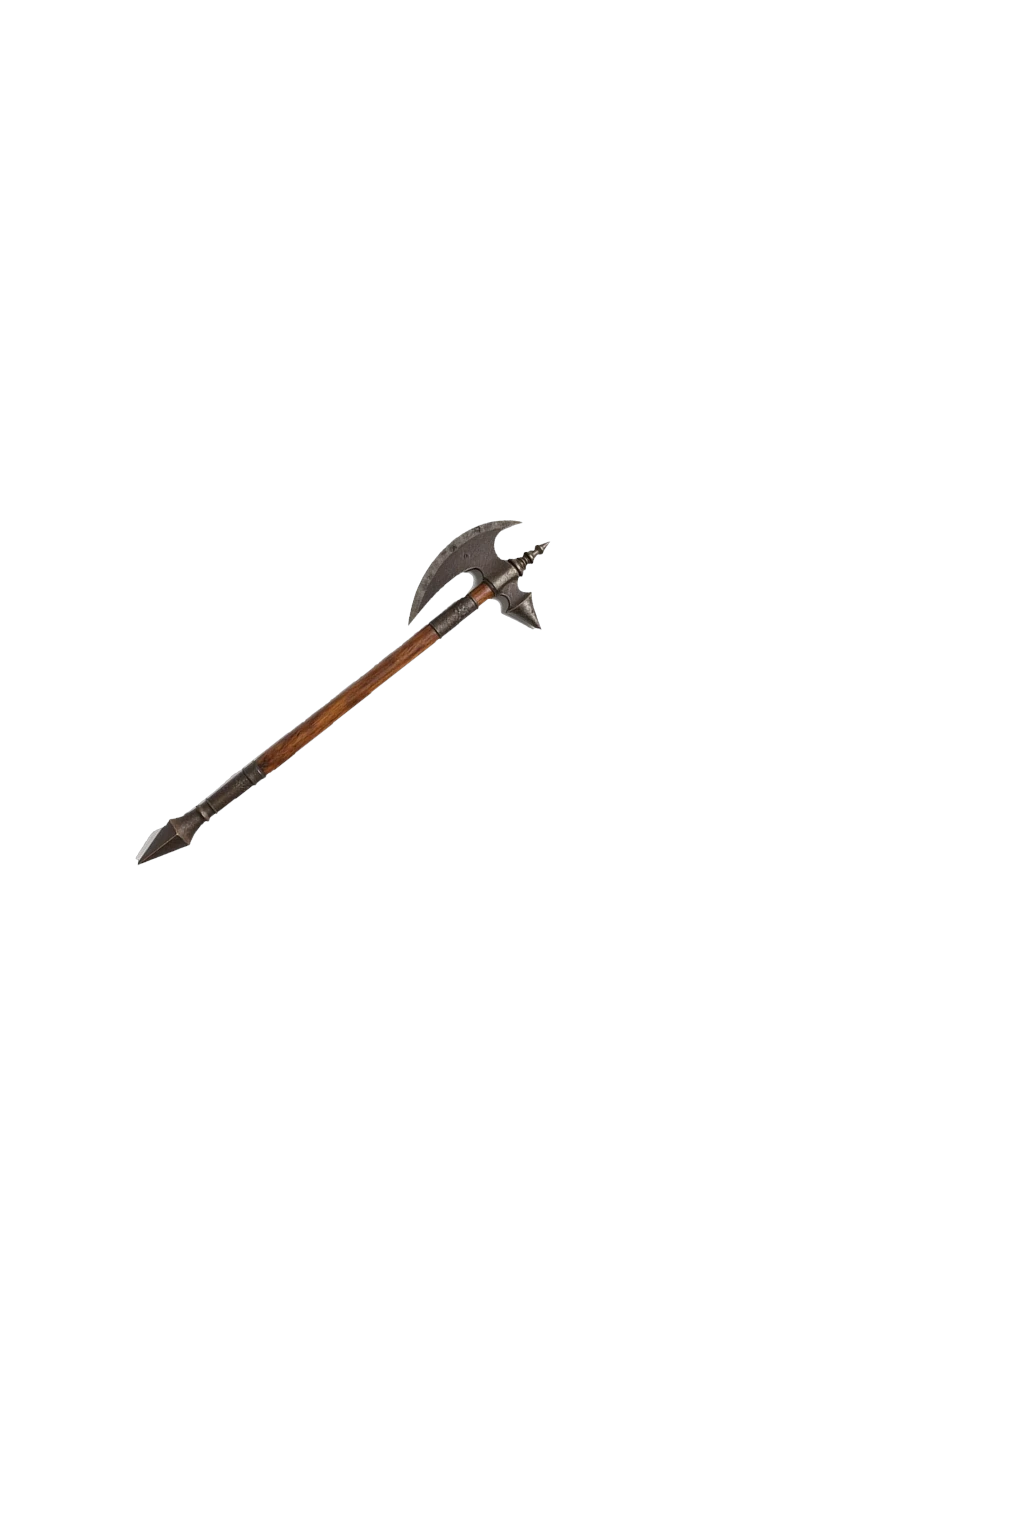
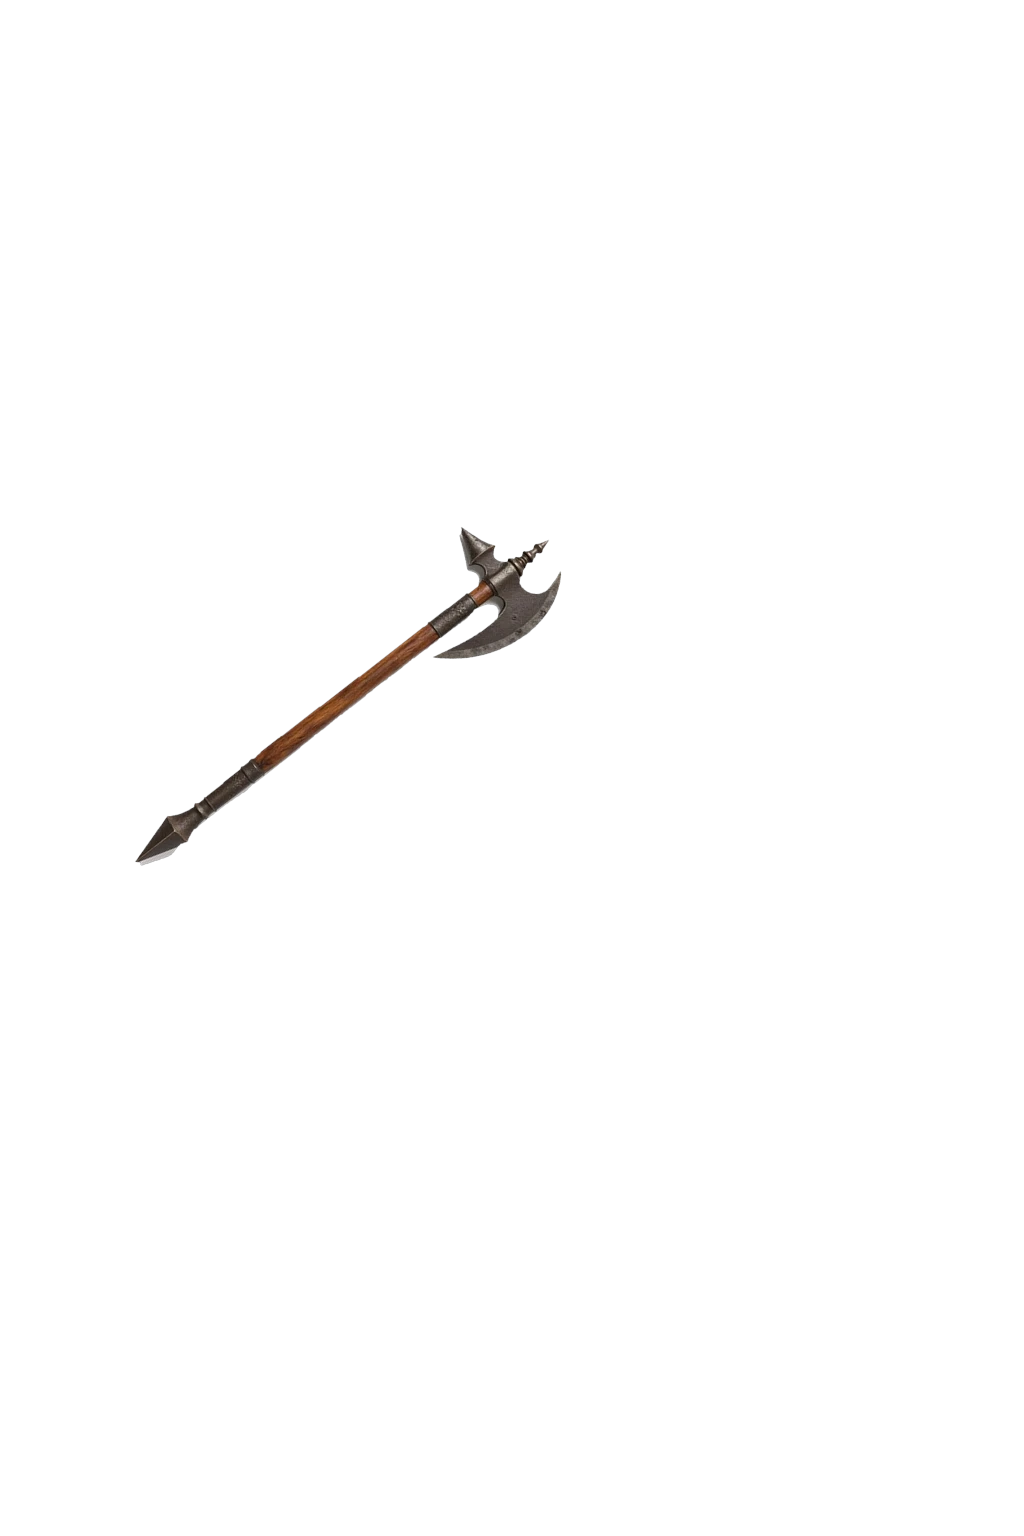
1.0-1-6: nakloněné sekery ostřím k zemi (Pavel)
Claude-Session: https://claude.ai/code/session_01Q25kmxKucwLhnUcj4Ap4v4

diff --git a/nastroje/zbrane_do_rukou.py b/nastroje/zbrane_do_rukou.py
@@ -40,7 +40,14 @@ STIT_NAKLON = 15               # Pavel 21:31: štít níž před levým bokem, v
 STIT_POSUN = (-65, 40)         # střed štítu vůči levé pěsti (px)
 NAKLON_SE_STITEM = 47
 HLAVICE = {"sekyrka", "palcat", "hejtmanuv-palcat", "valecne-kladivo", "remdih", "bojova-sekera", "cakan"}   # topůrko k opasku
-NAKLON_HLAVICE = 52          # jednoruční zbraň se štítem: víc šikmo přes tělo (vrstvy zbran-ruka-<slug>-<sx>-stit)                # 1.0-1-6: štíty mírně nakloněné horní hranou k tělu (stupně, proti směru hodin)
+NAKLON_HLAVICE = 52
+SEKERY = {"sekyrka", "bojova-sekera", "cakan"}   # Pavel: u nakloněných seker ostří vždy k zemi
+def ostri_vlevo(im):
+    """Je ostří (větší část hlavice) vlevo od topůrka? Hlavice = horní čtvrtina obrázku."""
+    a = np.array(im)[..., 3] > 80; H = a.shape[0]
+    osa = stred_x(im, .7) * a.shape[1]
+    hl = a[: H // 4]; xs = np.where(hl)[1]
+    return len(xs) and (xs < osa).sum() > (xs > osa).sum()          # jednoruční zbraň se štítem: víc šikmo přes tělo (vrstvy zbran-ruka-<slug>-<sx>-stit)                # 1.0-1-6: štíty mírně nakloněné horní hranou k tělu (stupně, proti směru hodin)
 STITY = {"stit-pestni": 34, "stit-jezdecky": 64, "stit-malovana-paveza": 105, "stit-mistrovsky": 72, "stit-lehky-dreveny": 58, "stit-okovany": 66, "stit-paveza": 100, "stit-rytirsky": 70, "stit-tezky-dreveny": 66}
 
 def uloz(img, name):
@@ -139,10 +146,12 @@ for sx in ("muz", "zena"):
             gy = jilec(im); H = (ZEM - P["y"]) / gy; out = poloz(n, H, (stred_x(im, gy), gy), (P["x"], P["y"]), 180)
         elif druh == "visi" and z != "prak":            # čepel nahoru šikmo přes tělo, pěst natočená se zbraní
             gy = jilec(im); u = -(NAKLON_DYKA if z in DYKY else NAKLON_HLAVICE if z in HLAVICE else NAKLON_JEDNORUCNI)
-            out = v_pesti(n, H, (stred_x(im, gy), gy), "prava", sx, u)
+            zr = z in SEKERY and ostri_vlevo(im)         # po naklonění doprava by ostří mířilo nahoru → zrcadlit
+            gx = 1 - stred_x(im, gy) if zr else stred_x(im, gy)
+            out = v_pesti(n, H, (gx, gy), "prava", sx, u, zrcadlo=zr)
             if z not in DYKY:                            # se štítem víc šikmo (hlavice stejně)
                 u2 = -(NAKLON_HLAVICE if z in HLAVICE else NAKLON_SE_STITEM)
-                uloz(v_pesti(n, H, (stred_x(im, gy), gy), "prava", sx, u2), f"zbran-ruka-{z}-{sx}-stit")
+                uloz(v_pesti(n, H, (gx, gy), "prava", sx, u2, zrcadlo=zr), f"zbran-ruka-{z}-{sx}-stit")
         elif druh == "visi":
             gy = jilec(im); out = poloz(n, H, (stred_x(im, gy), gy), (P["x"], P["y"]), 180)
         elif druh == "stoji":
